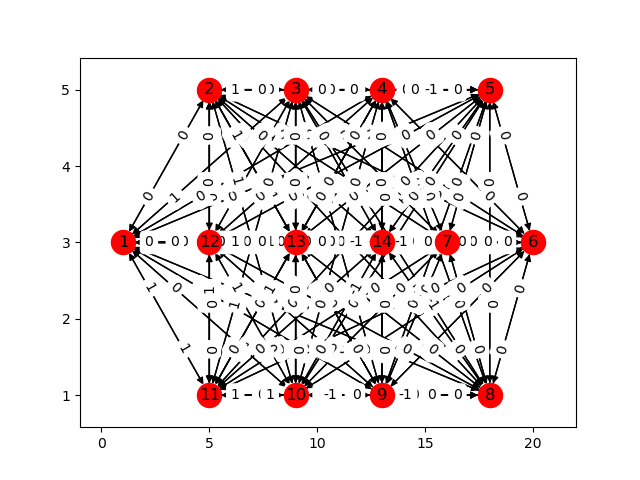
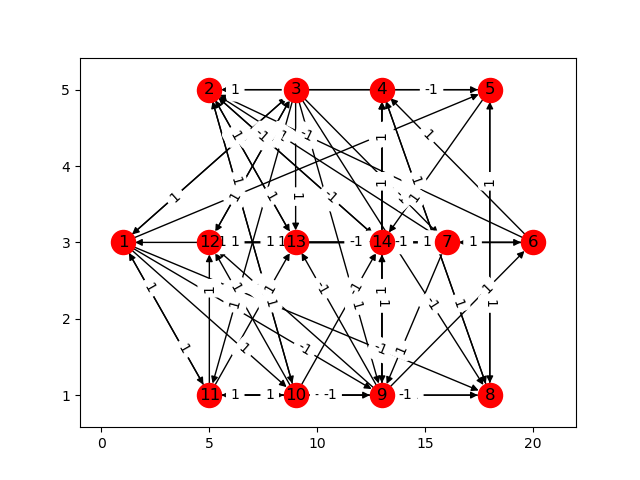
update robust properties into 3 robust graph

diff --git a/week_8/w_msr.py b/week_8/w_msr.py
@@ -41,10 +41,10 @@ def create_graph_by_adjacency_matrix(from_file, n, left_side):
                 i += 1
             flag = False
 
-    # import robustness_checker
-    # r,s = robustness_checker.determine_robustness_multi_process(matrix)
+    import robustness_checker
+    r,s = robustness_checker.determine_robustness_multi_process(matrix)
 
-    # print(r, s)
+    print(r, s)
 
     for i in range(n):
         for j in range(n):
@@ -53,17 +53,15 @@ def create_graph_by_adjacency_matrix(from_file, n, left_side):
                     if j + 1 in left_side:
                         sign = 1
                     else:
+                        print("i + 1 = ", i + 1, ",j + 1 =", j + 1, ",sign = ", -1)
                         sign = -1
-            else:
-                sign = 0
-
-
-            if not graph.has_edge(i + 1, j + 1):
+                
+                else: # i + 1不在左边
+                    if j + 1 in left_side:
+                        sign = -1
+                    else:
+                        sign = 1
                 graph.add_edge(i + 1, j + 1, sign=sign)  # True 代表正， False代表负
-
-    import robustness_checker
-    a, b = robustness_checker.determine_robustness_multi_process(matrix)
-    print(a, b)
 
     return graph
 
@@ -200,34 +198,37 @@ def draw_graph(fg, name):
 
 def w_msr():
     graph = create_graph_by_adjacency_matrix(
-        "./data/data_2_robust_7_7_nodes.in", 14, left_side=[1, 2, 12, 11, 3, 13, 10])
+        "./data/data_3_robust_7_7_nodes.in", 14, left_side=[1, 2, 12, 11, 3, 13, 10])
 
-    draw_graph(graph, "2_robust_7_7_nodes")
-    print(graph.edges(data=True))
-    for time_step in range(1000):
+    draw_graph(graph, "3_robust_7_7_nodes")
+    # print(graph.edges(data=True))
+    for time_step in range(200):
         for i in graph.nodes():
-            # if i == 4:
-            #     if time_step == 1:
-            #         graph.node[i]['value'].append(graph.node[i]['value'][time_step] - 4)
-            #     else:
-            #         graph.node[i]['value'].append(graph.node[i]['value'][time_step] + 0.01)
-            #     continue
+            if i == 4:
+                if time_step == 1:
+                    graph.node[i]['value'].append(graph.node[i]['value'][time_step] - 4)
+                else:
+                    graph.node[i]['value'].append(graph.node[i]['value'][time_step] + 0.05)
+                continue
             current_value = graph.node[i]['value'][time_step]
             in_edges = graph.in_edges(i)
 
             # print("in_edges:", in_edges)
 
             in_neighbors = get_in_neighbors(i, in_edges)
+
+            neighbors = get_limited_neighbors(node_no=i, graph=graph, neighbors=in_neighbors, time_step=time_step,
+                                              cur_value=current_value, F=1)
             delta = 0.0
-            weight = 1.0 / len(in_neighbors)
+            weight = 1.0 / len(neighbors) # 2F+1-robust, 所以不会出现个数为0的情况
             # print("neighbors:", in_neighbors)
-            for j in in_neighbors:
+            for j in neighbors:
                 current_neighbor_value = graph.node[j]['value'][time_step]
                 sgn = graph[j][i]['sign']
-                print("sgn:", sgn)
+                # print("sgn:", sgn)
                 delta += weight * (current_neighbor_value *
                                    sign(sgn) - current_value)
-            final_result = current_value + 0.01 * delta
+            final_result = current_value + 0.1 * delta
             graph.node[i]['value'].append(final_result)
 
     plt.xlabel("time-step")
@@ -235,10 +236,10 @@ def w_msr():
 
     # print("shape" + str(len(graph.node[]['value'])))
 
-    x_axis = range(1001)
+    x_axis = range(201)
     for i in graph.nodes():
         plt.plot(x_axis, graph.node[i]['value'])
-    plt.savefig("./pngs/w_msr_2_robust_7_7_nodes.png")
+    plt.savefig("./pngs/w_msr_3_robust_7_7_nodes.png")
     plt.show()
 
 
